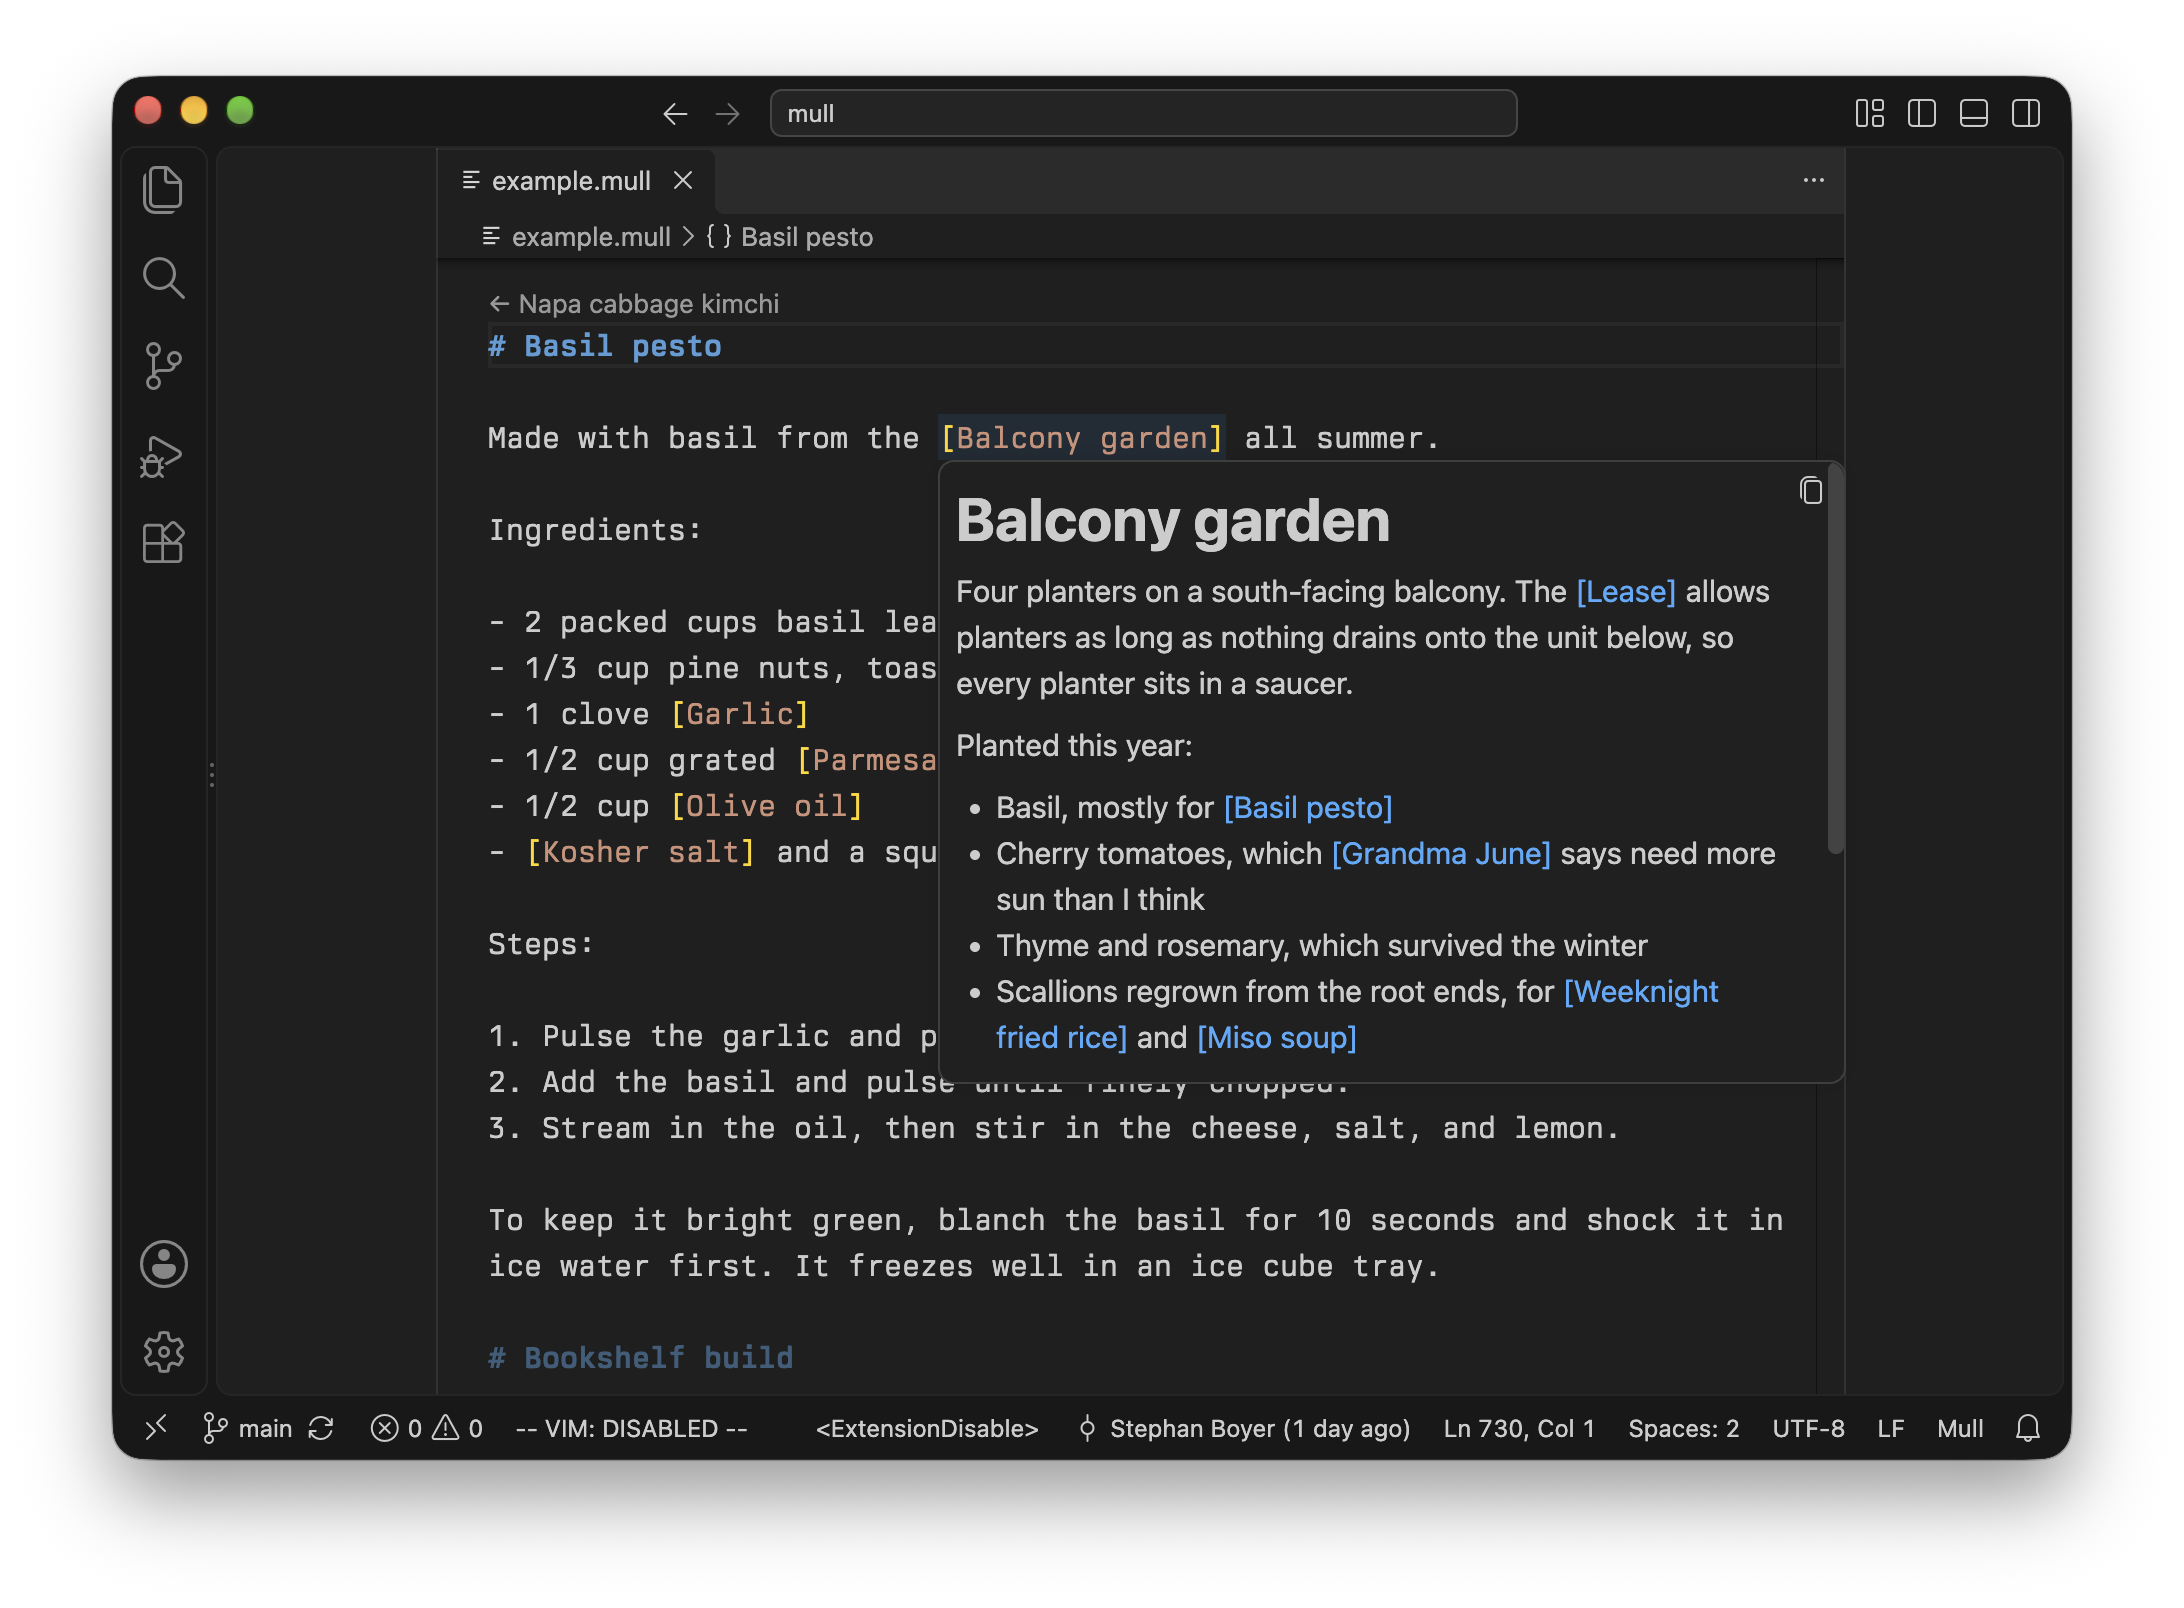
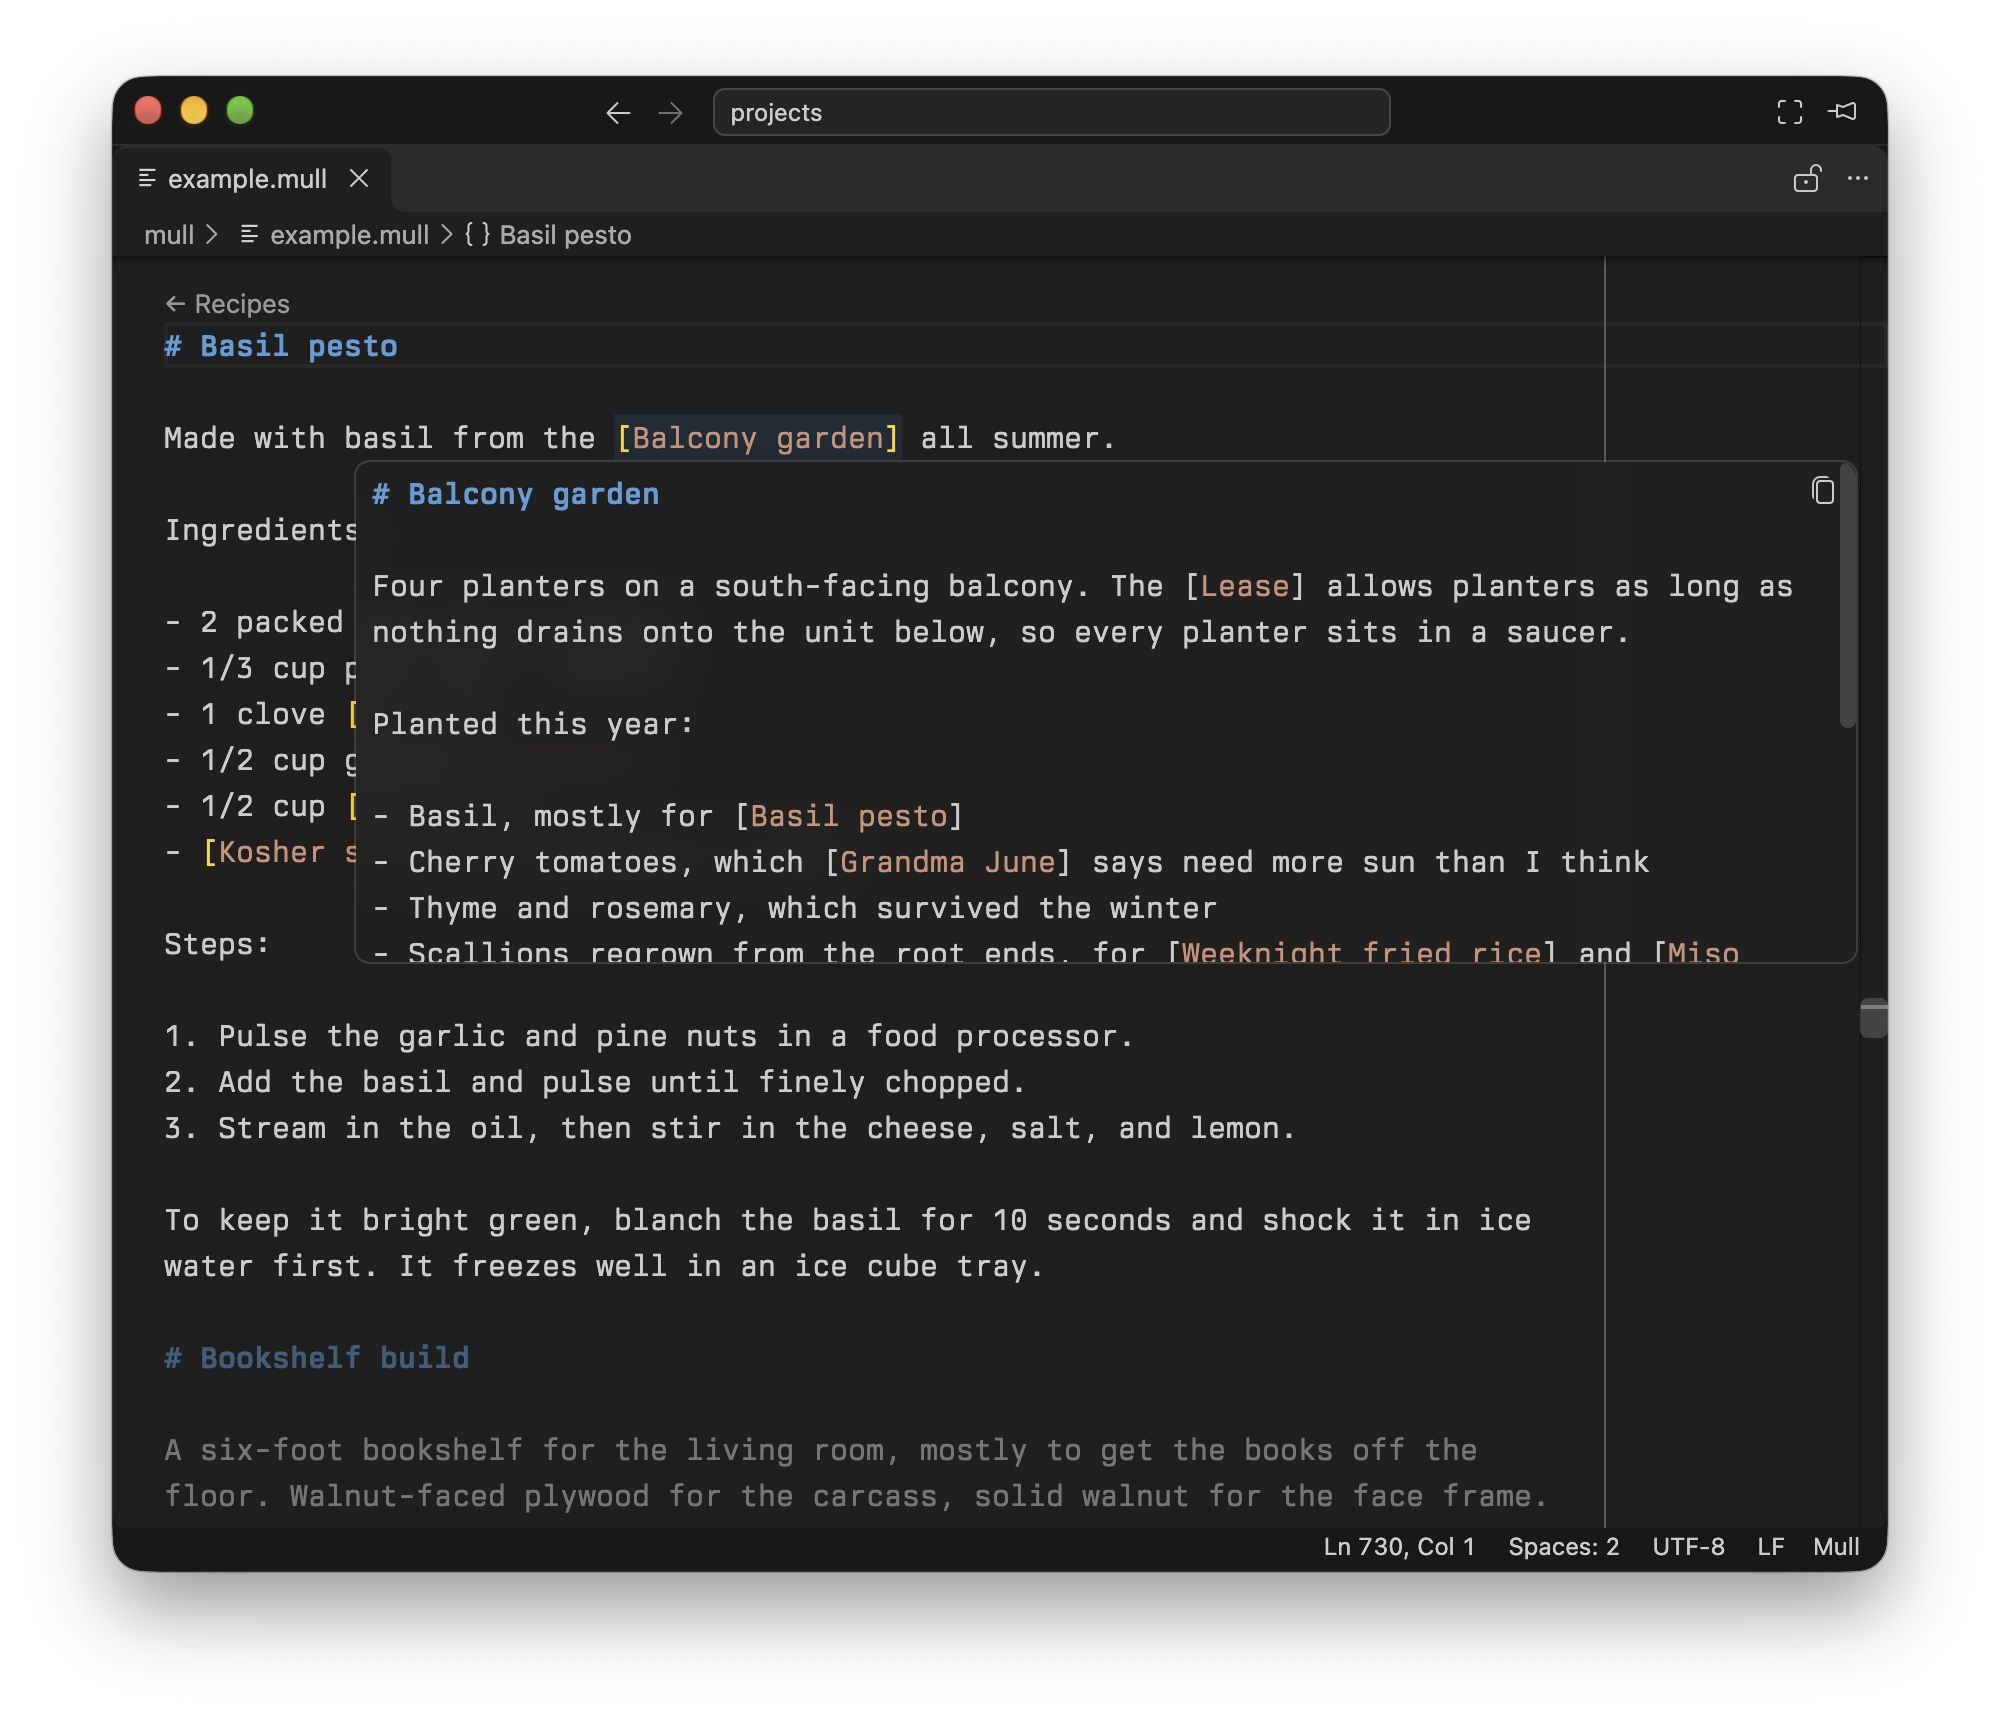
Tweak the README's introduction and update the screenshots (#212)
* Tweak the wording of the README's introduction

* Update the screenshots

Changed region(s): [[0.031, 0.0311, 0.961, 0.9328], [0.217, 0.1866, 0.341, 0.2177], [0.093, 0.5286, 0.124, 0.5597]]

diff --git a/README.md b/README.md
@@ -2,7 +2,7 @@
 
 [![Build status](https://github.com/stepchowfun/mull/actions/workflows/ci.yml/badge.svg?branch=main)](https://github.com/stepchowfun/mull/actions?query=branch%3Amain)
 
-*Mull* is a tool for managing a wiki stored in a plain text file. There's a [Visual Studio Code](https://code.visualstudio.com/) / [Cursor](https://cursor.com/) extension which provides syntax highlighting, hover previews, completions, diagnostics, formatting, refactoring, etc.
+*Mull* is a tool for managing a wiki stored in a plain text file. It has a [Visual Studio Code](https://code.visualstudio.com/) / [Cursor](https://cursor.com/) extension which provides syntax highlighting, hover previews, completions, diagnostics, formatting, refactoring, etc.
 
 ![Welcome to Mull.](https://raw.githubusercontent.com/stepchowfun/mull/main/screenshots/mull.png)
 
